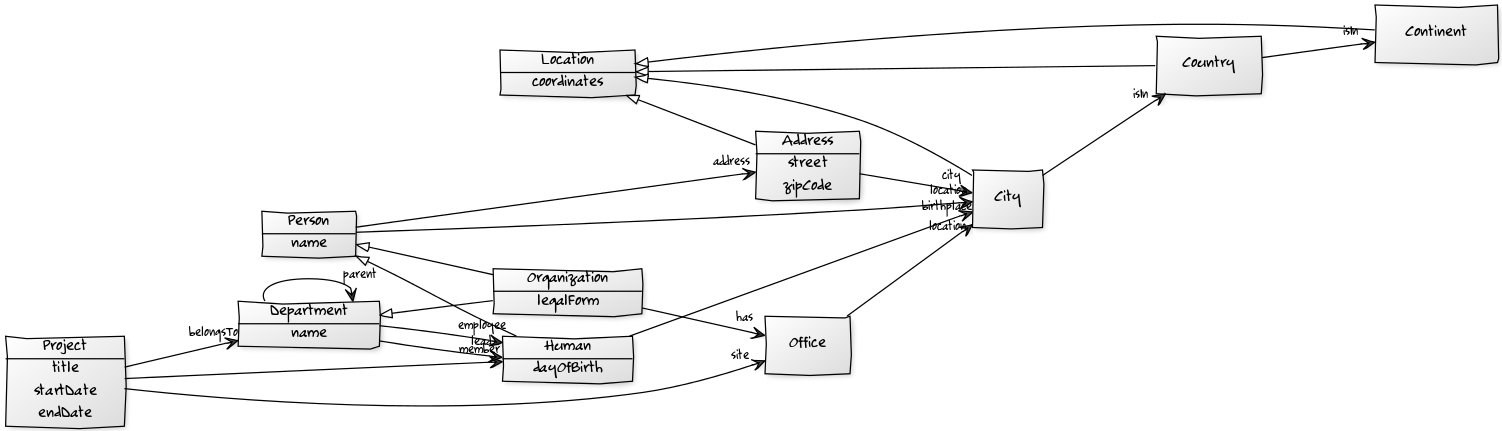
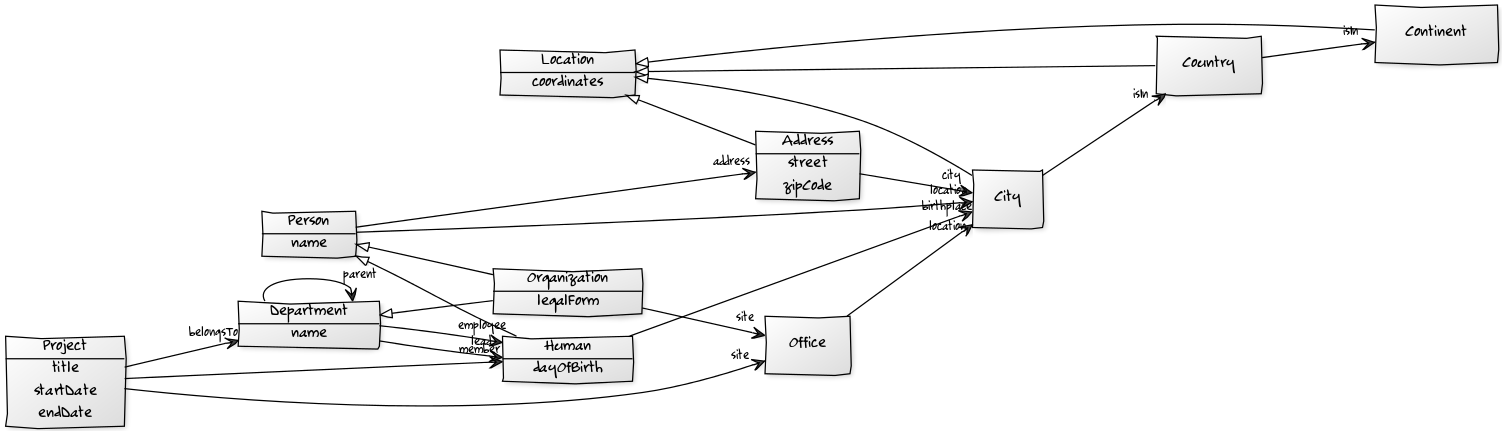
updating cypher part to new model

diff --git a/content/training/intro/classroom-enterprise/index.html b/content/training/intro/classroom-enterprise/index.html
@@ -171,7 +171,7 @@ Grab a coffee and get ready to begin!
 <ul>
 <li>'Persons' can be natural persons (humans) or legal entities (organizations)</li>
 <li>Legal entities are structured in hierarchical departments</li>
-<li>People are employees of a department and every deparment has a lead</li>
+<li>People are employees of a department and every department has a lead</li>
 <li>Projects belong to departments and have team member</li>
 <li>Persons have addresses and locations</li>
 <li>Humans have a day of birth and birthplaces, organizations have a tax ID</li>
@@ -540,19 +540,23 @@ derivative of <a href="http://www.flickr.com/photos/sixteenmilesofstring/8256206
 </section>
 <section class="slide" id="_enterprise_model_revisited">
 <h2>Enterprise model revisited</h2>
-<div class="paragraph"><p>TODO ER model or tables</p></div>
+<div class="imageblock">
+<div class="content">
+<img alt="simplified" src="./diagrams/simplified.png">
+</div>
+</div>
 </section>
-<section class="slide" id="_find_member_of_the_it_department">
-<h2>Find member of the IT-Department</h2>
+<section class="slide" id="_find_employees_of_the_it_department">
+<h2>Find employees of the IT-Department</h2>
 <div class="paragraph slide"><p>with SQL:</p></div>
 <div class="listingblock slide">
 <div class="content">
-<textarea class="code" mode="plsql">SELECT * FROM NaturalPerson
-LEFT JOIN NaturalPerson_OrganizationalUnit
-  ON NaturalPerson.Id = NaturalPerson_OrganizationalUnit.PersonId
-LEFT JOIN OrganizationalUnit
-  ON OrganizationalUnit.Id = NaturalPerson_OrganizationalUnit.UnitId
-WHERE OrganizationalUnit.name = "IT-Department"</textarea>
+<textarea class="code" mode="plsql">SELECT * FROM Human
+LEFT JOIN Human_Department
+  ON Human.Id = Human_Department.HumanId
+LEFT JOIN Department
+  ON Department.Id = Human_Department.DepartmentId
+WHERE Department.name = "IT-Department"</textarea>
 </div>
 </div>
 <div class="paragraph slide"><p>with Cypher&#8230;&#8203;</p></div>
@@ -573,20 +577,20 @@ WHERE OrganizationalUnit.name = "IT-Department"</textarea>
 <figure class="graph-diagram">
   <ul class="graph-diagram-markup" data-internal-scale="1.47" data-external-scale="0.5">
     <li class="node" data-node-id="1" data-x="-676" data-y="-19">
-      <span class="caption">p:NaturalPerson</span>
+      <span class="caption">h:Human</span>
     </li>
     <li class="node" data-node-id="2" data-x="221.7539520263672" data-y="-19">
-      <span class="caption">u:OrganizationalUnit</span>
+      <span class="caption">d:Dept</span>
     </li>
     <li class="relationship" data-from="1" data-to="2">
-      <span class="type">:MEMBER</span>
+      <span class="type">:EMPLOYEE</span>
     </li>
   </ul>
 </figure>
 <div class="paragraph slide"><p>The pattern in Cypher:</p></div>
 <div class="listingblock slide">
 <div class="content">
-<textarea class="code" mode="cypher">(p:NaturalPerson)-[:MEMBER]-&gt;(u:OrganizationalUnit)</textarea>
+<textarea class="code" mode="cypher">(h:Human)-[:EMPLOYEE]-&gt;(d:Dept)</textarea>
 </div>
 </div>
 </section>
@@ -595,16 +599,16 @@ WHERE OrganizationalUnit.name = "IT-Department"</textarea>
 <div class="paragraph slide"><p><code>MATCH</code> allows you to find a pattern in the graph</p></div>
 <div class="listingblock slide">
 <div class="content">
-<textarea class="code" mode="cypher">MATCH (p:NaturalPerson)-[:MEMBER]-&gt;(u:OrganizationalUnit)
-RETURN p.canonicalName, u.name</textarea>
+<textarea class="code" mode="cypher">MATCH (h:Human)-[:EMPLOYEE]-&gt;(d:Dept)
+RETURN h.name, d.name</textarea>
 </div>
 </div>
 <div class="paragraph slide"><p><code>WHERE</code> allows you to filter the results</p></div>
 <div class="listingblock slide">
 <div class="content">
-<textarea class="code" mode="cypher">MATCH (p:NaturalPerson)-[:MEMBER]-&gt;(u:OrganizationalUnit)
-WHERE u.name = "IT-Department"
-RETURN p.canonicalName, u.name</textarea>
+<textarea class="code" mode="cypher">MATCH (h:Human)-[:EMPLOYEE]-&gt;(d:Dept)
+WHERE d.name = "IT-Department"
+RETURN h.name, d.name</textarea>
 </div>
 </div>
 </section>
@@ -612,19 +616,19 @@ RETURN p.canonicalName, u.name</textarea>
 <h2>SQL vs. Cypher</h2>
 <div class="listingblock slide">
 <div class="content">
-<textarea class="code" mode="plsql">SELECT * FROM NaturalPerson
-LEFT JOIN NaturalPerson_OrganizationalUnit
-  ON NaturalPerson.Id = NaturalPerson_OrganizationalUnit.PersonId
-LEFT JOIN OrganizationalUnit
-  ON OrganizationalUnit.Id = NaturalPerson_OrganizationalUnit.UnitId
-WHERE OrganizationalUnit.name = "IT-Department"</textarea>
+<textarea class="code" mode="plsql">SELECT * FROM Human
+LEFT JOIN Human_Department
+  ON Human.Id = Human_Department.HumanId
+LEFT JOIN Department
+  ON Department.Id = Human_Department.DepartmentId
+WHERE Department.name = "IT-Department</textarea>
 </div>
 </div>
 <div class="listingblock slide">
 <div class="content">
-<textarea class="code" mode="cypher">MATCH (p:NaturalPerson)-[:MEMBER]-&gt;(u:OrganizationalUnit)
-WHERE u.name = "IT-Department"
-RETURN p.canonicalName, u.name</textarea>
+<textarea class="code" mode="cypher">MATCH (h:Human)-[:EMPLOYEE]-&gt;(d:Dept)
+WHERE d.name = "IT-Department"
+RETURN h.name, d.name</textarea>
 </div>
 </div>
 </section>
@@ -691,57 +695,57 @@ RETURN p.canonicalName, u.name</textarea>
 </section>
 <section class="slide" id="_label">
 <h2>Label</h2>
-<div class="paragraph"><p>Find all natural persons</p></div>
+<div class="paragraph"><p>Find all humans</p></div>
 <div class="listingblock slide">
 <div class="content">
-<textarea class="code" mode="cypher">MATCH (p:NaturalPerson)
-RETURN p.canonicalName;</textarea>
+<textarea class="code" mode="cypher">MATCH (h:Human)
+RETURN h.name;</textarea>
 </div>
 </div>
 </section>
 <section class="slide" id="_relationship_types">
 <h2>Relationship types</h2>
-<div class="paragraph"><p>Find member of an organizational unit</p></div>
+<div class="paragraph"><p>Find employees of a department</p></div>
 <figure class="graph-diagram">
   <ul class="graph-diagram-markup" data-internal-scale="1.47" data-external-scale="1">
     <li class="node" data-node-id="1" data-x="-676" data-y="-19">
-      <span class="caption">p</span>
+      <span class="caption">h</span>
     </li>
     <li class="node" data-node-id="2" data-x="-351.03516361989097" data-y="-19">
-      <span class="caption">u</span>
+      <span class="caption">d</span>
     </li>
     <li class="relationship" data-from="1" data-to="2">
-      <span class="type">:MEMBER</span>
+      <span class="type">:EMPLOYEE</span>
     </li>
   </ul>
 </figure>
 <div class="listingblock slide">
 <div class="content">
-<textarea class="code" mode="cypher">MATCH (p)-[:MEMBER]-&gt;(u)
-RETURN p.canonicalName, u.name;</textarea>
+<textarea class="code" mode="cypher">MATCH (h)-[:EMPLOYEE]-&gt;(d)
+RETURN h.name, d.name;</textarea>
 </div>
 </div>
 </section>
 <section class="slide" id="_relationship_types_and_labels">
 <h2>Relationship types and labels</h2>
-<div class="paragraph"><p>Find member of an organizational unit</p></div>
+<div class="paragraph"><p>Find employees of a department</p></div>
 <figure class="graph-diagram">
   <ul class="graph-diagram-markup" data-internal-scale="1.47" data-external-scale="0.5">
     <li class="node" data-node-id="1" data-x="-676" data-y="-19">
-      <span class="caption">p:NaturalPerson</span>
+      <span class="caption">h:Human</span>
     </li>
     <li class="node" data-node-id="2" data-x="221.7539520263672" data-y="-19">
-      <span class="caption">u:OrganizationalUnit</span>
+      <span class="caption">d:Dept</span>
     </li>
     <li class="relationship" data-from="1" data-to="2">
-      <span class="type">:MEMBER</span>
+      <span class="type">:EMPLOYEE</span>
     </li>
   </ul>
 </figure>
 <div class="listingblock slide">
 <div class="content">
-<textarea class="code" mode="cypher">MATCH (p:NaturalPerson)-[:MEMBER]-&gt;(u:OrganizationalUnit)
-RETURN p.canonicalName, u.name;</textarea>
+<textarea class="code" mode="cypher">MATCH (h:Human)-[:EMPLOYEE]-&gt;(d:Dept)
+RETURN h.name, d.name;</textarea>
 </div>
 </div>
 </section>
@@ -755,99 +759,105 @@ derivative of <a href="https://www.flickr.com/photos/adikos/4440682278">"Female 
 <h2>First Excercise</h2>
 <div class="ulist">
 <ul>
-<li>Find the names of all legal persons.</li>
-<li>Works in the same teams as "Alice Miller"?</li>
-<li>Which companies have offices in Paris?</li>
+<li>Find the names of all organizations.</li>
+<li>Who works in the same departments as Alice?</li>
+<li>Which organizations have offices in Paris?</li>
 <li>In which countries has "GraphIT" offices?</li>
 </ul>
 </div>
+<div class="paragraph"><p><em>Labels: Human, Org, Dept, Person, Office</em></p></div>
+<div class="paragraph"><p><em>Relationship Types: EMPLOYEE, SITE, LOCATION, IS_IN</em></p></div>
 </section>
-<section class="slide" id="_find_all_legal_persons">
-<h2>Find all legal persons</h2>
+<section class="slide" id="_find_all_organizations">
+<h2>Find all organizations</h2>
 <div class="paragraph slide"><p>Pattern</p></div>
 </section>
-<section class="slide" id="_find_all_legal_persons_2">
-<h2>Find all legal persons</h2>
+<section class="slide" id="_find_all_organizations_2">
+<h2>Find all organizations</h2>
 <div class="paragraph"><p>Pattern</p></div>
 <figure class="graph-diagram">
   <ul class="graph-diagram-markup" data-internal-scale="1.47" data-external-scale="0.6">
     <li class="node" data-node-id="1" data-x="-676" data-y="-19">
-      <span class="caption">c:LegalPerson</span>
+      <span class="caption">o:Org</span>
     </li>
   </ul>
 </figure>
 <div class="paragraph slide"><p>Cypher</p></div>
 <div class="listingblock slide">
 <div class="content">
-<textarea class="code" mode="cypher">MATCH (c:LegalPerson)
-RETURN c.canonicalName;</textarea>
+<textarea class="code" mode="cypher">MATCH (o:Org)
+RETURN o.name;</textarea>
 </div>
 </div>
 </section>
-<section class="slide" id="_colleagues_of_alice_miller">
-<h2>Colleagues of Alice Miller</h2>
+<section class="slide" id="_colleagues_of_alice">
+<h2>Colleagues of Alice</h2>
 <div class="paragraph slide"><p>Pattern</p></div>
 </section>
-<section class="slide" id="_colleagues_of_alice_miller_2">
-<h2>Colleagues of Alice Miller</h2>
+<section class="slide" id="_colleagues_of_alice_2">
+<h2>Colleagues of Alice</h2>
 <div class="paragraph"><p>Pattern</p></div>
 <figure class="graph-diagram">
   <ul class="graph-diagram-markup" data-internal-scale="4.26" data-external-scale="0.6">
     <li class="node" data-node-id="4" data-x="-1697.3037903549252" data-y="-31.244897959183675">
-      <span class="caption">a:NaturalPerson</span>
+      <span class="caption">a:Human</span>
     </li>
     <li class="node" data-node-id="5" data-x="-1498.2804922128632" data-y="-31.244897959183675">
-      <span class="caption">u:OrganizationalUnit</span>
+      <span class="caption">d:Dept</span>
     </li>
     <li class="node" data-node-id="6" data-x="-1297.1275555499185" data-y="-31.244897959183675">
-      <span class="caption">b:NaturalPerson</span>
+      <span class="caption">b:Human</span>
     </li>
     <li class="relationship" data-from="4" data-to="5">
-      <span class="type">:MEMBER</span>
+      <span class="type">:EMPLOYEE</span>
     </li>
     <li class="relationship" data-from="6" data-to="5">
-      <span class="type">:MEMBER</span>
+      <span class="type">:EMPLOYEE</span>
     </li>
   </ul>
 </figure>
 <div class="paragraph slide"><p>Cypher</p></div>
 <div class="listingblock slide">
 <div class="content">
-<textarea class="code" mode="cypher">MATCH (a:NaturalPerson)-[:MEMBER]-&gt;(u:OrganizationalUnit),
-  u&lt;-[:MEMBER]-(b:NaturalPerson)
-WHERE a.canonicalName = "Alice Miller"
-RETURN b.canonicalName;</textarea>
+<textarea class="code" mode="cypher">MATCH (a:Human)-[:EMPLOYEE]-&gt;(d:Dept),
+  u&lt;-[:EMPLOYEE]-(b:Human)
+WHERE a.name = "Alice"
+RETURN b.name;</textarea>
 </div>
 </div>
 </section>
-<section class="slide" id="_companies_with_offices_in_paris">
-<h2>Companies with offices in Paris</h2>
+<section class="slide" id="_organizations_with_offices_in_paris">
+<h2>Organizations with offices in Paris</h2>
 <div class="paragraph slide"><p>Pattern</p></div>
 </section>
-<section class="slide" id="_companies_with_offices_in_paris_2">
+<section class="slide" id="_companies_with_offices_in_paris">
 <h2>Companies with offices in Paris</h2>
 <div class="paragraph"><p>Pattern</p></div>
 <figure class="graph-diagram">
   <ul class="graph-diagram-markup" data-internal-scale="1.54" data-external-scale="0.6">
     <li class="node" data-node-id="1" data-x="-926.9929027097343" data-y="-31.244897959183675">
-      <span class="caption">city:City</span>
+      <span class="caption">c:City</span>
     </li>
     <li class="node" data-node-id="3" data-x="-1271.278139283057" data-y="-31.244897959183675">
       <span class="caption">:Office</span>
     </li>
     <li class="node" data-node-id="4" data-x="-1697.3037903549252" data-y="-31.244897959183675">
-      <span class="caption">c:LegalPerson</span>
+      <span class="caption">o:Org</span>
     </li>
-    <li class="relationship" data-from="3" data-to="1"></li>
-    <li class="relationship" data-from="4" data-to="3"></li>
+    <li class="relationship" data-from="3" data-to="1">
+      <span class="type">:LOCATION</span>
+    </li>
+    <li class="relationship" data-from="4" data-to="3">
+      <span class="type">:SITE</span>
+    </li>
   </ul>
 </figure>
 <div class="paragraph slide"><p>Cypher</p></div>
 <div class="listingblock slide">
 <div class="content">
-<textarea class="code" mode="cypher">MATCH (c:LegalPerson)--&gt;(:Office)--&gt;(city:City)
-WHERE city.name = "Paris"
-RETURN c.canonicalName;</textarea>
+<textarea class="code" mode="cypher">MATCH (o:Org)-[:SITE]-&gt;(:Office)-[:LOCATION]-&gt;(c:City)
+WHERE c.name = "Paris"
+RETURN o.name;</textarea>
 </div>
 </div>
 </section>
@@ -867,22 +877,28 @@ RETURN c.canonicalName;</textarea>
       <span class="caption">:Office</span>
     </li>
     <li class="node" data-node-id="4" data-x="-1697.3037903549252" data-y="-31.244897959183675">
-      <span class="caption">c:LegalPerson</span>
+      <span class="caption">o:Organization</span>
     </li>
     <li class="node" data-node-id="5" data-x="-734.977202670841" data-y="-31.244897959183675">
-      <span class="caption">country:Country</span>
+      <span class="caption">c:Country</span>
     </li>
-    <li class="relationship" data-from="3" data-to="1"></li>
-    <li class="relationship" data-from="4" data-to="3"></li>
-    <li class="relationship" data-from="1" data-to="5"></li>
+    <li class="relationship" data-from="3" data-to="1">
+      <span class="type">:LOCATION</span>
+    </li>
+    <li class="relationship" data-from="4" data-to="3">
+      <span class="type">:SITE</span>
+    </li>
+    <li class="relationship" data-from="1" data-to="5">
+      <span class="type">:IS_IN</span>
+    </li>
   </ul>
 </figure>
 <div class="paragraph slide"><p>Cypher</p></div>
 <div class="listingblock slide">
 <div class="content">
-<textarea class="code" mode="cypher">MATCH (c:LegalPerson)--&gt;(:Office)--&gt;(:City)--&gt;(country:Country)
-WHERE c.canonicalName = "GraphIT"
-RETURN country.name;</textarea>
+<textarea class="code" mode="cypher">MATCH (o:Org)-[:SITE]-&gt;(:Office)-[:LOCATION]-&gt;(:City)-[IS_IN]-&gt;(c:Country)
+WHERE o.name = "GraphIT"
+RETURN c.name;</textarea>
 </div>
 </div>
 </section>
